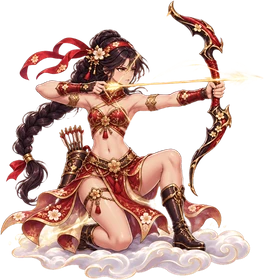
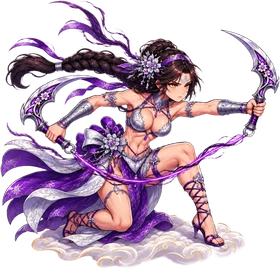
그림: 달래 각성 그림자 칼날 게임 그림(aw1p)·칼날 탄(dl_blade)·각성 일러스트(aw1)
Claude-Session: https://claude.ai/code/session_01X3WCR5nTXLkTaQuYbPMPiQ

diff --git a/game-design/art/달래각성_그림자칼날/README.md b/game-design/art/달래각성_그림자칼날/README.md
@@ -9,3 +9,9 @@
 | `1_dive_blades` | 두 칼날을 쥐고 날아듦, 그림자 날개 | 190a81ed-0686-4644-ad3d-ce3b423455cd |
 | `2_throw_blades` | 날아들며 칼날을 던짐(그림자 실로 이어져 돌아옴) | 25add65d-2075-409a-aee6-6d333e67ca18 |
 | `3_split_moment` | 공중에서 활을 양손으로 가르는 각성 순간 | 971bddb5-002d-44ff-a99c-1b000197eb77 |
+
+## 게임 그림 (11/21)
+- `../게임용/aw1p.webp` (280px) / `aw1p_hi.webp` (640px): 각성 모습. 첫 참고 원본 게임 그림 `hp1_o0`, 옷 C안, 무기 `0_weapon_design`. 앞으로 뛰어드는 자세, 두 칼날 + 그림자 실, 구름 탐. job 7c5b9dc1-5cb5-402e-bb07-09ccdb77c649
+- `../게임용/dl_blade.webp` (128px) / `dl_blade_hi.webp` (256px): 칼날 탄(연기 없음, 게임에서 돌리고 연기는 코드로). job 4bd17618-0435-4596-b50b-f0af62823305 · 연기 있는 판 `dl_blade_smoke.webp`
+- `../게임용/aw1.webp`: 각성 일러스트 = `3_split_moment`
+배경은 Higgsfield 배경 제거 + 테두리 1픽셀 정리.
